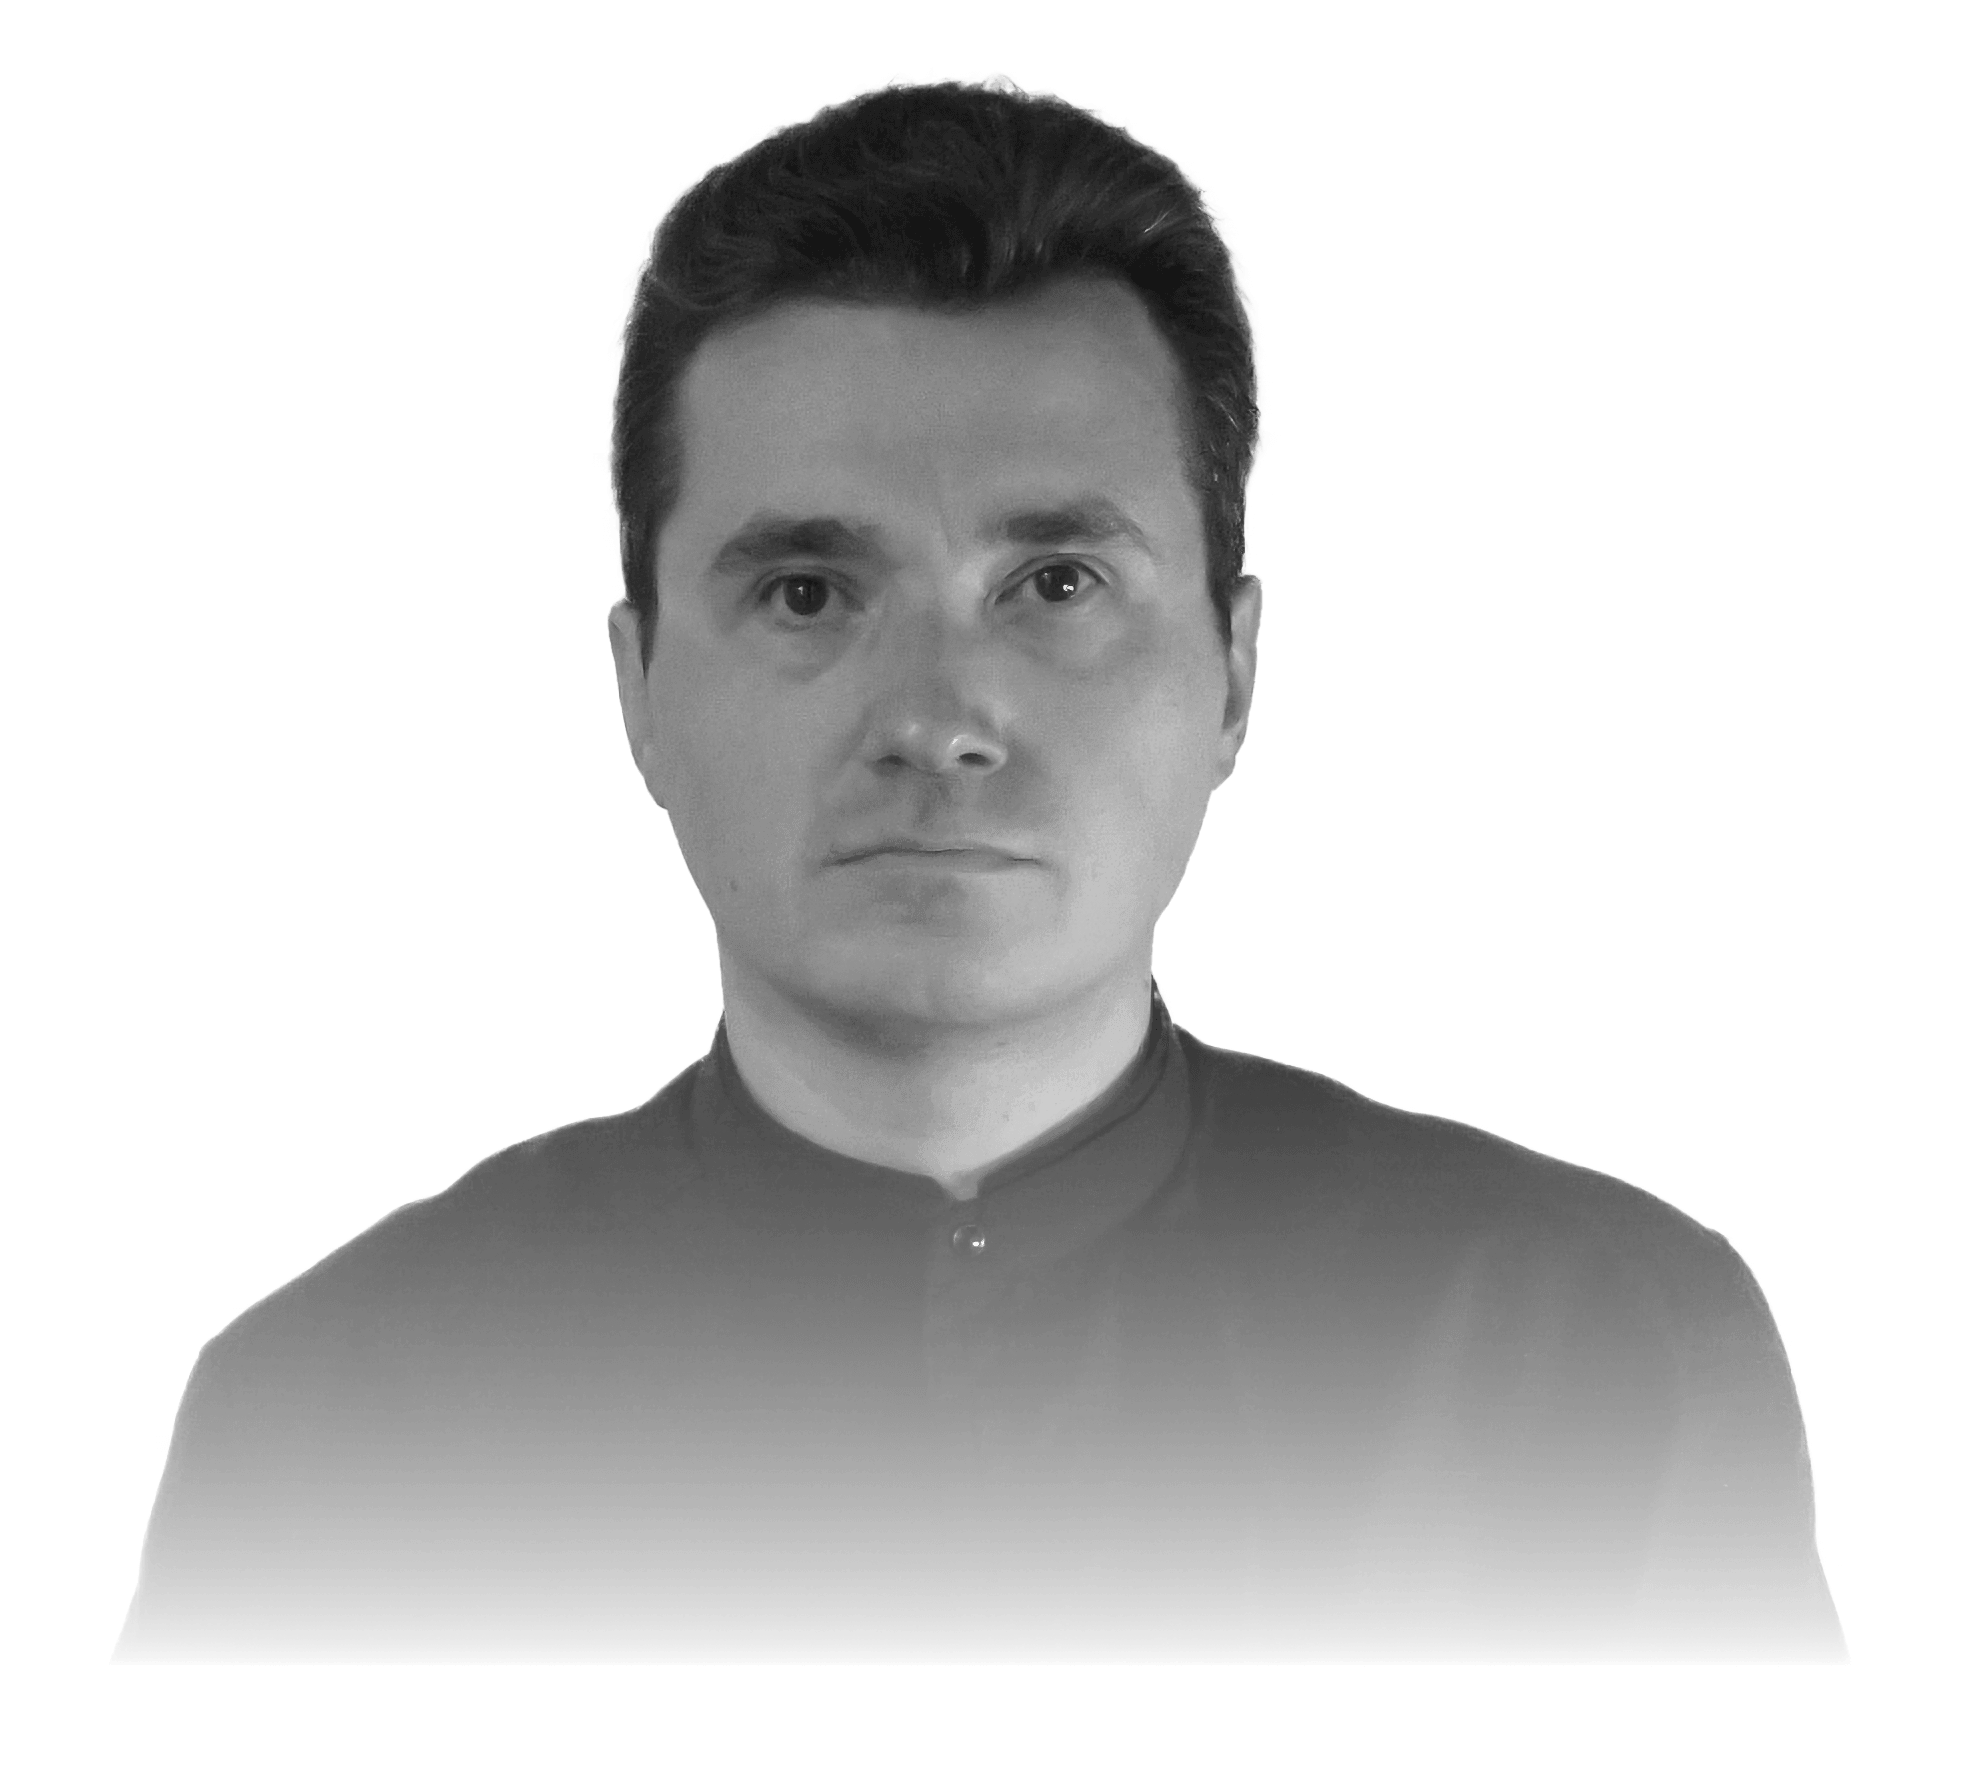
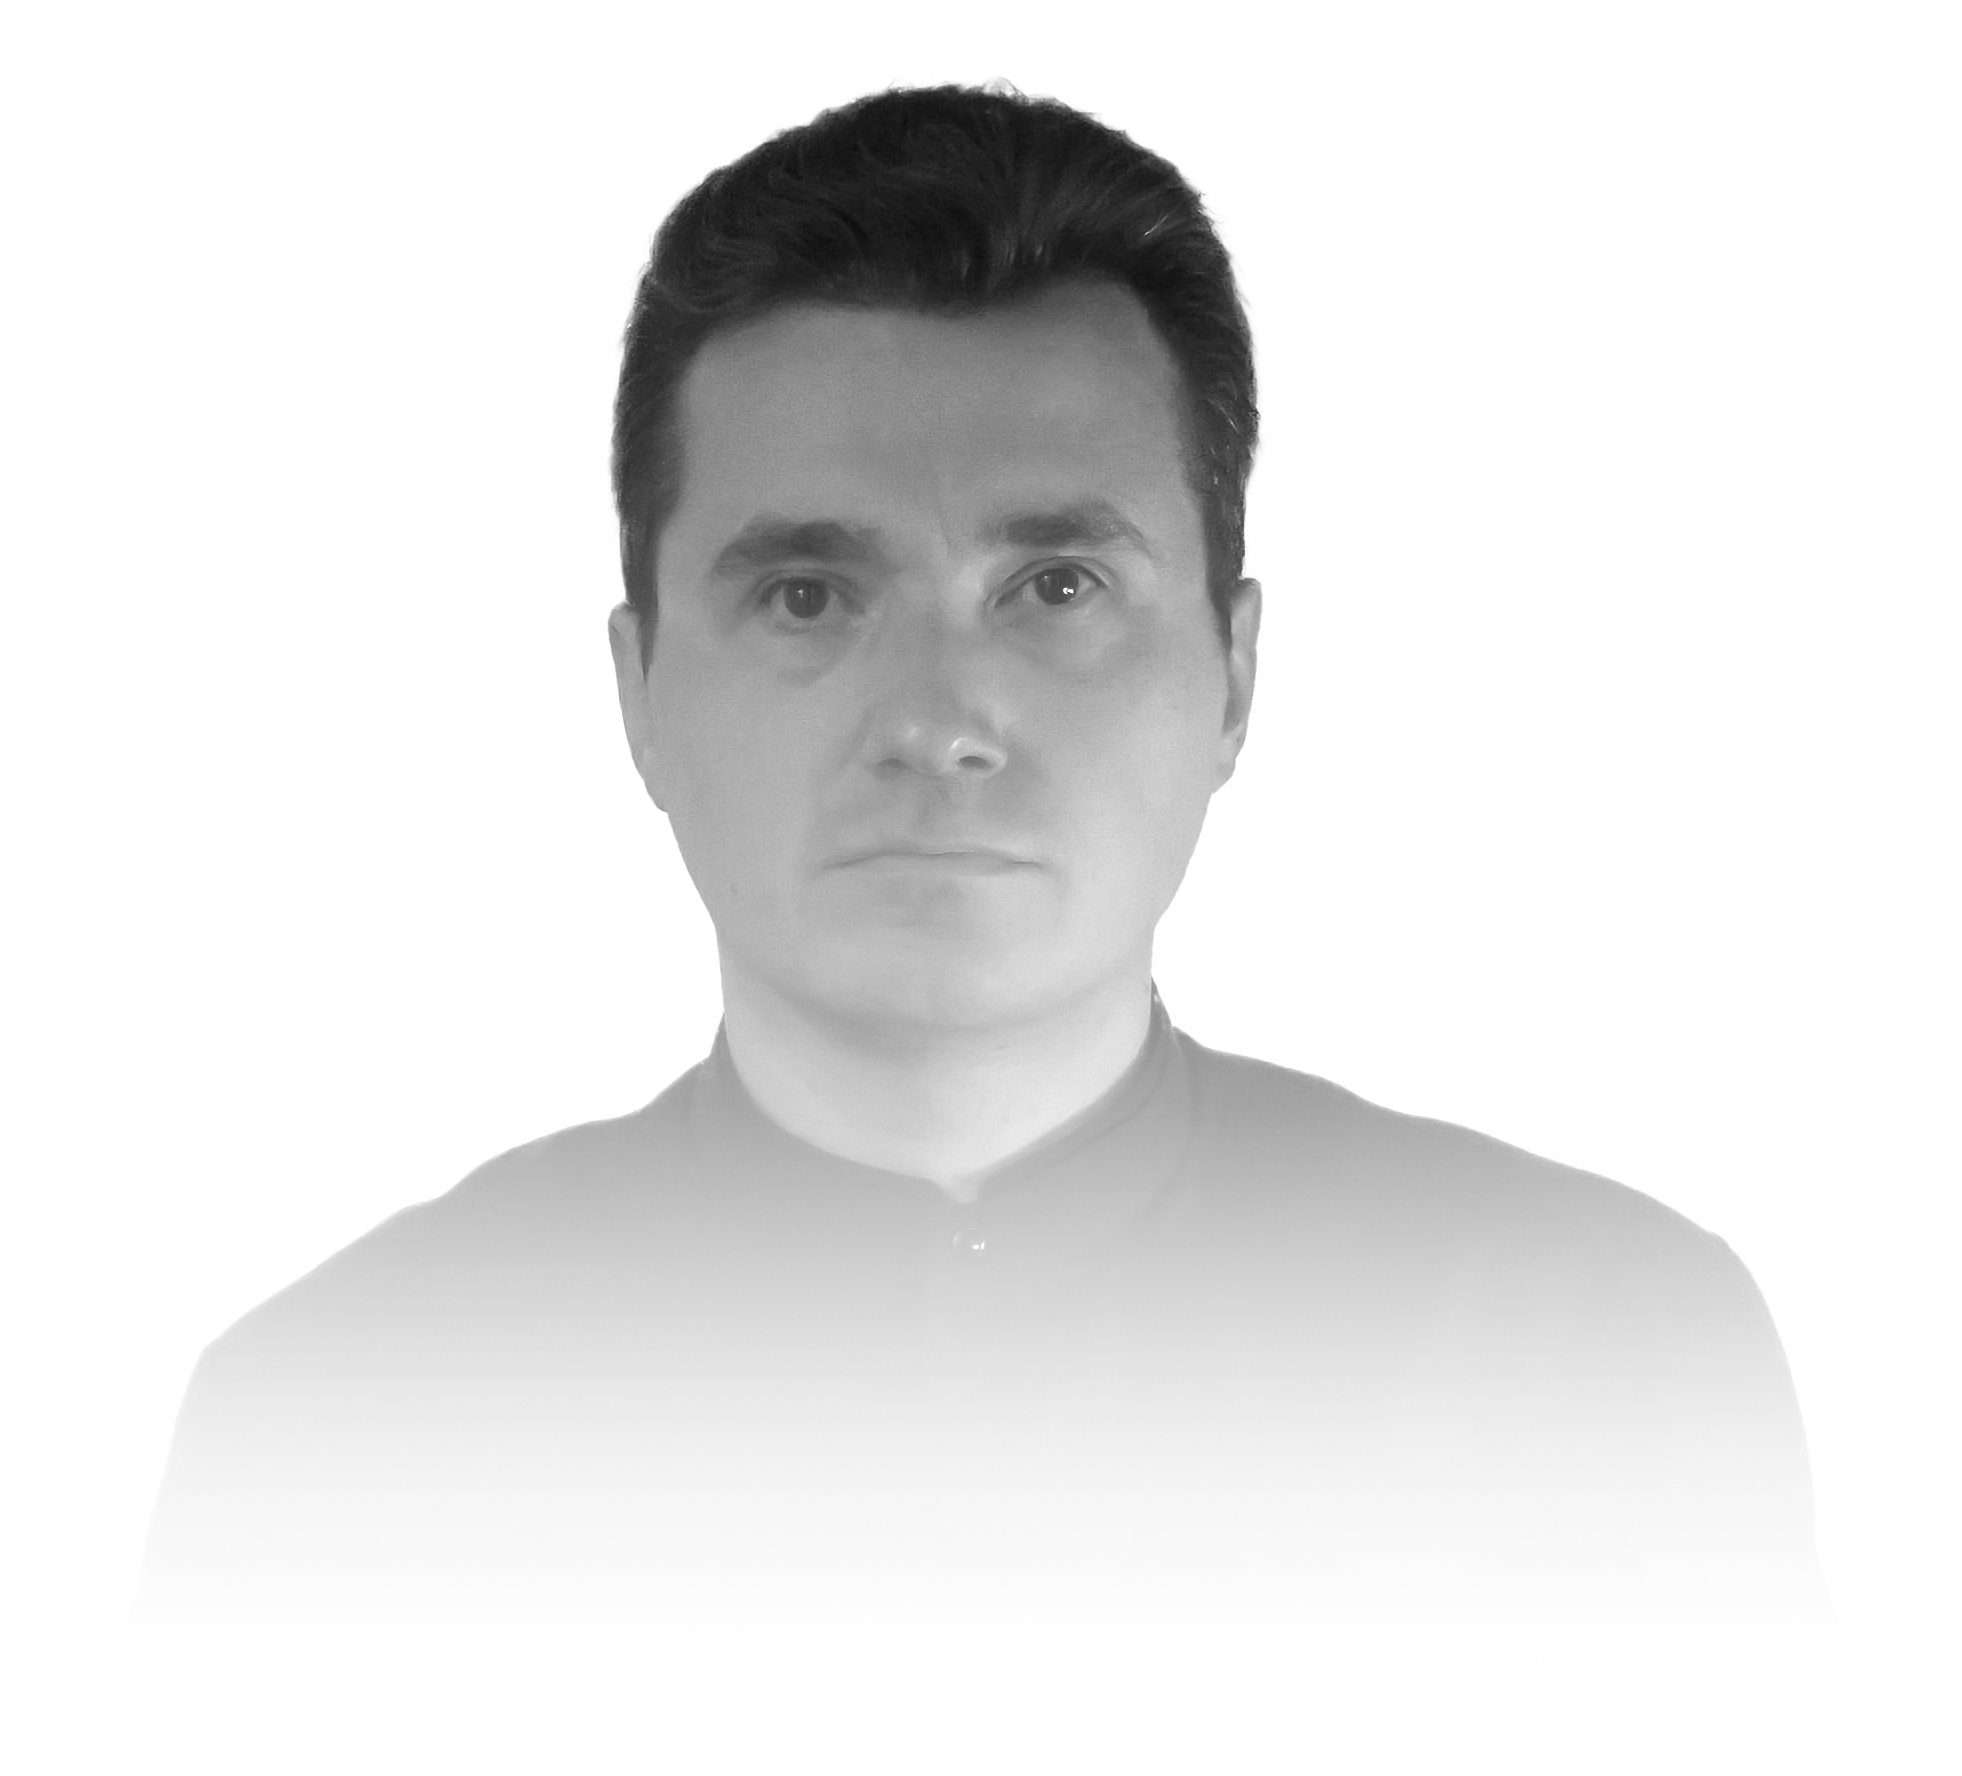
Hero section updates

diff --git a/sass/_variables.sass b/sass/_variables.sass
@@ -18,10 +18,10 @@ $enable-validation-icons: false
 $theme-colors: ( )
 
 // Grid breackpoints
-$grid-breakpoints: ( xs: 0, md: 1000px )
+$grid-breakpoints: ( xs: 0, md: 1400px, xl: 1850px, xxl: 2300px )
 
 // Container max width
-$container-max-widths: ( md: 1400px )
+$container-max-widths: ( md: 1400px, xl: 1850px, xxl: 2300px )
 
 // Root variables prefix
 $prefix: cc-

diff --git a/next.config.js b/next.config.js
@@ -1,18 +1,14 @@
 module.exports = {
 	images: {
-		domains: [
-			// Dribbble CDN
-			"cdn.dribbble.com",
-
-			// Instagram CDN
-			"scontent.cdninstagram.com"
-		],
-
 		// Instagram CDN
 		remotePatterns: [
 			{
 				protocol: "https",
 				hostname: "*.cdninstagram.com"
+			},
+			{
+				protocol: "https",
+				hostname: "cdn.dribbble.com"
 			}
 		]
 	}

diff --git a/app/about/page.tsx b/app/about/page.tsx
@@ -9,7 +9,7 @@ import ServicesTools from "./services-tools"
 
 export default async () => {
 	// Photo data
-	const aboutImage = await getPhotoData("/images/cc-about.jpg")
+	const aboutImage = await getPhotoData("/images/cc-about.png")
 
 	return (
 		<>
